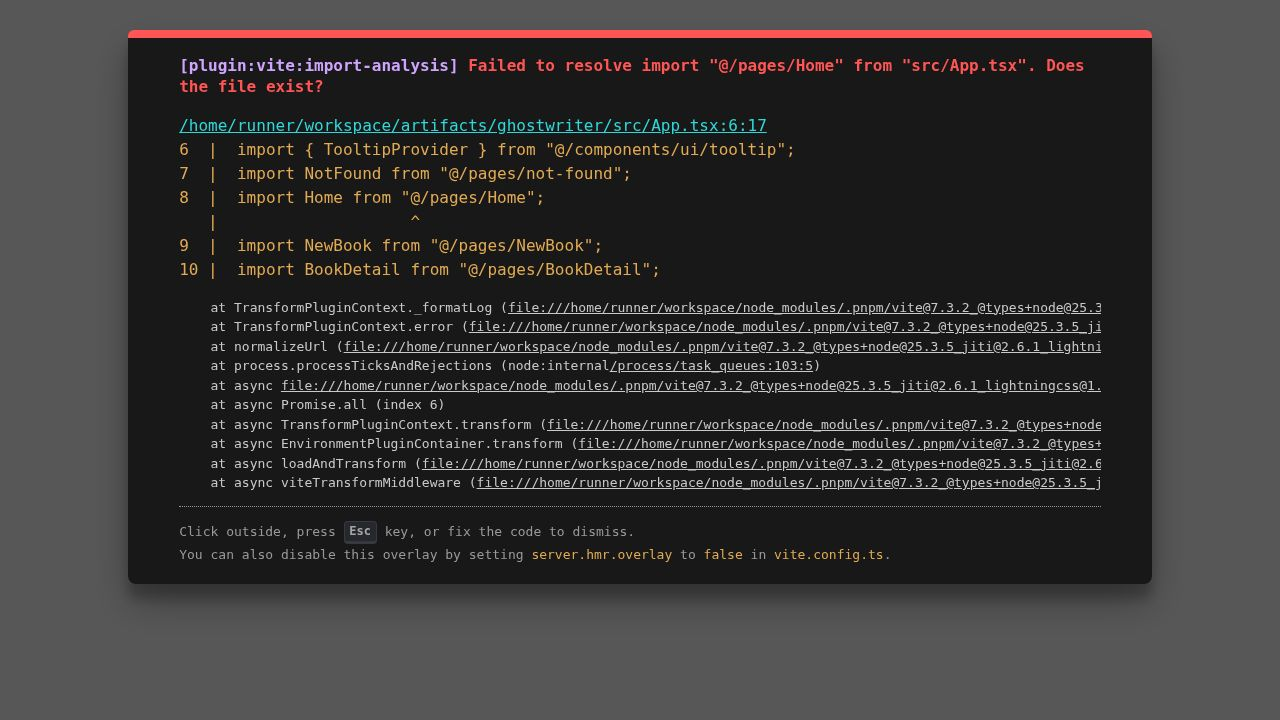
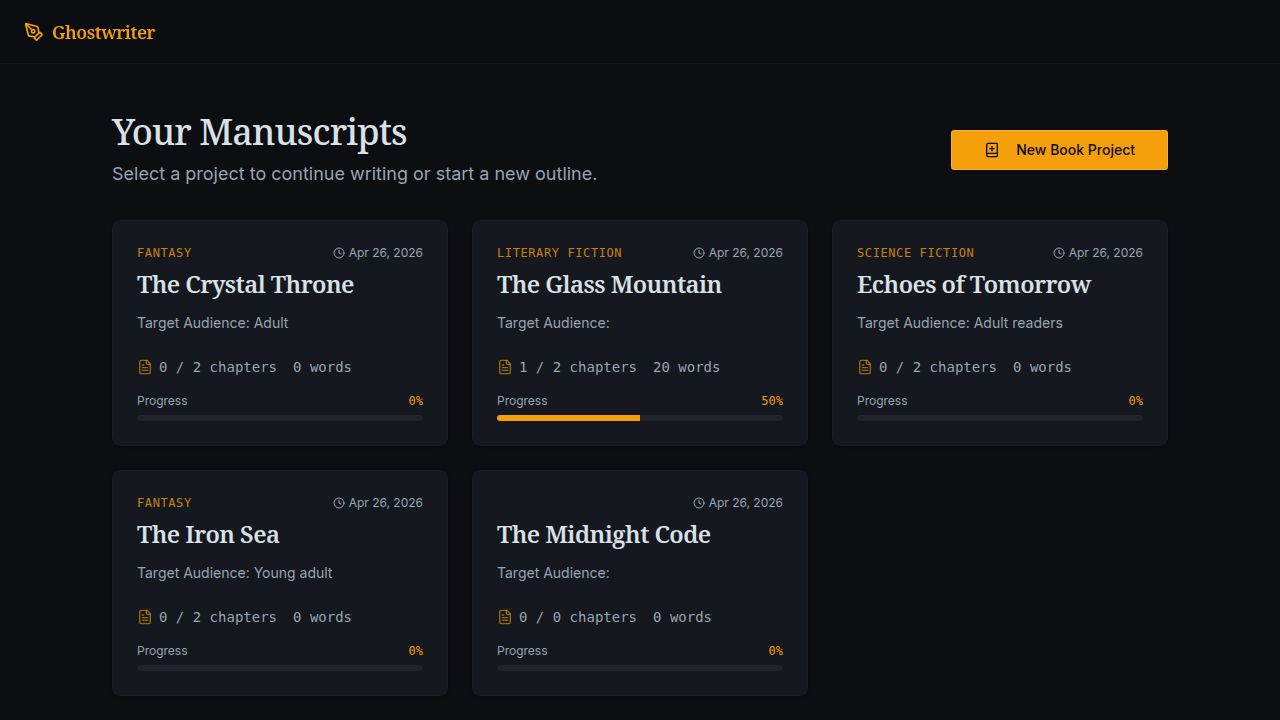
Improve book generation and export functionality
Fix redundant chapter update after generation and add warning for incomplete book exports.

Replit-Commit-Author: Agent
Replit-Commit-Session-Id: ce02249a-0575-42d9-831e-40c55b0d7ac8
Replit-Commit-Checkpoint-Type: full_checkpoint
Replit-Commit-Event-Id: 9b1b7fa0-881e-4015-84c4-d56353be2c2e
Replit-Commit-Screenshot-Url: https://storage.googleapis.com/screenshot-production-us-central1/8805769f-8955-499d-96ff-f547225e8f03/ce02249a-0575-42d9-831e-40c55b0d7ac8/jqRIZYP
Replit-Helium-Checkpoint-Created: true

diff --git a/artifacts/ghostwriter/src/pages/BookDetail.tsx b/artifacts/ghostwriter/src/pages/BookDetail.tsx
@@ -54,22 +54,11 @@ export default function BookDetail() {
   }, [activeChapterId, book]);
 
   const handleGenerate = async (chapter: Chapter) => {
-    generate(bookId, chapter.chapterNumber, (result, fullText) => {
-      // Done
-      updateChapter.mutate({
-        id: bookId,
-        chapterNumber: chapter.chapterNumber,
-        data: { generatedText: fullText }
-      }, {
-        onSuccess: (updatedChap) => {
-          setEditedText(updatedChap.generatedText || "");
-          queryClient.invalidateQueries({ queryKey: getGetBookQueryKey(bookId) });
-          toast({ title: "Chapter generation complete" });
-        },
-        onError: () => {
-          toast({ title: "Failed to save generated chapter", variant: "destructive" });
-        }
-      });
+    generate(bookId, chapter.chapterNumber, (_result, fullText) => {
+      // Server already persisted generated text; just refresh the cache and sync local state
+      setEditedText(fullText);
+      queryClient.invalidateQueries({ queryKey: getGetBookQueryKey(bookId) });
+      toast({ title: "Chapter generation complete" });
     });
   };
 
@@ -339,7 +328,15 @@ export default function BookDetail() {
                     size="sm"
                     className="border-border/50 text-xs h-7 px-2.5"
                     disabled={generatedCount === 0}
-                    onClick={() => window.location.href = `/api/books/${bookId}/export/${fmt}`}
+                    onClick={() => {
+                      if (generatedCount < chapters.length) {
+                        const ok = window.confirm(
+                          `Only ${generatedCount} of ${chapters.length} chapters have been generated. The export will omit unwritten chapters. Continue?`
+                        );
+                        if (!ok) return;
+                      }
+                      window.location.href = `/api/books/${bookId}/export/${fmt}`;
+                    }}
                   >
                     <Download className="w-3 h-3 mr-1.5" />{label}
                   </Button>